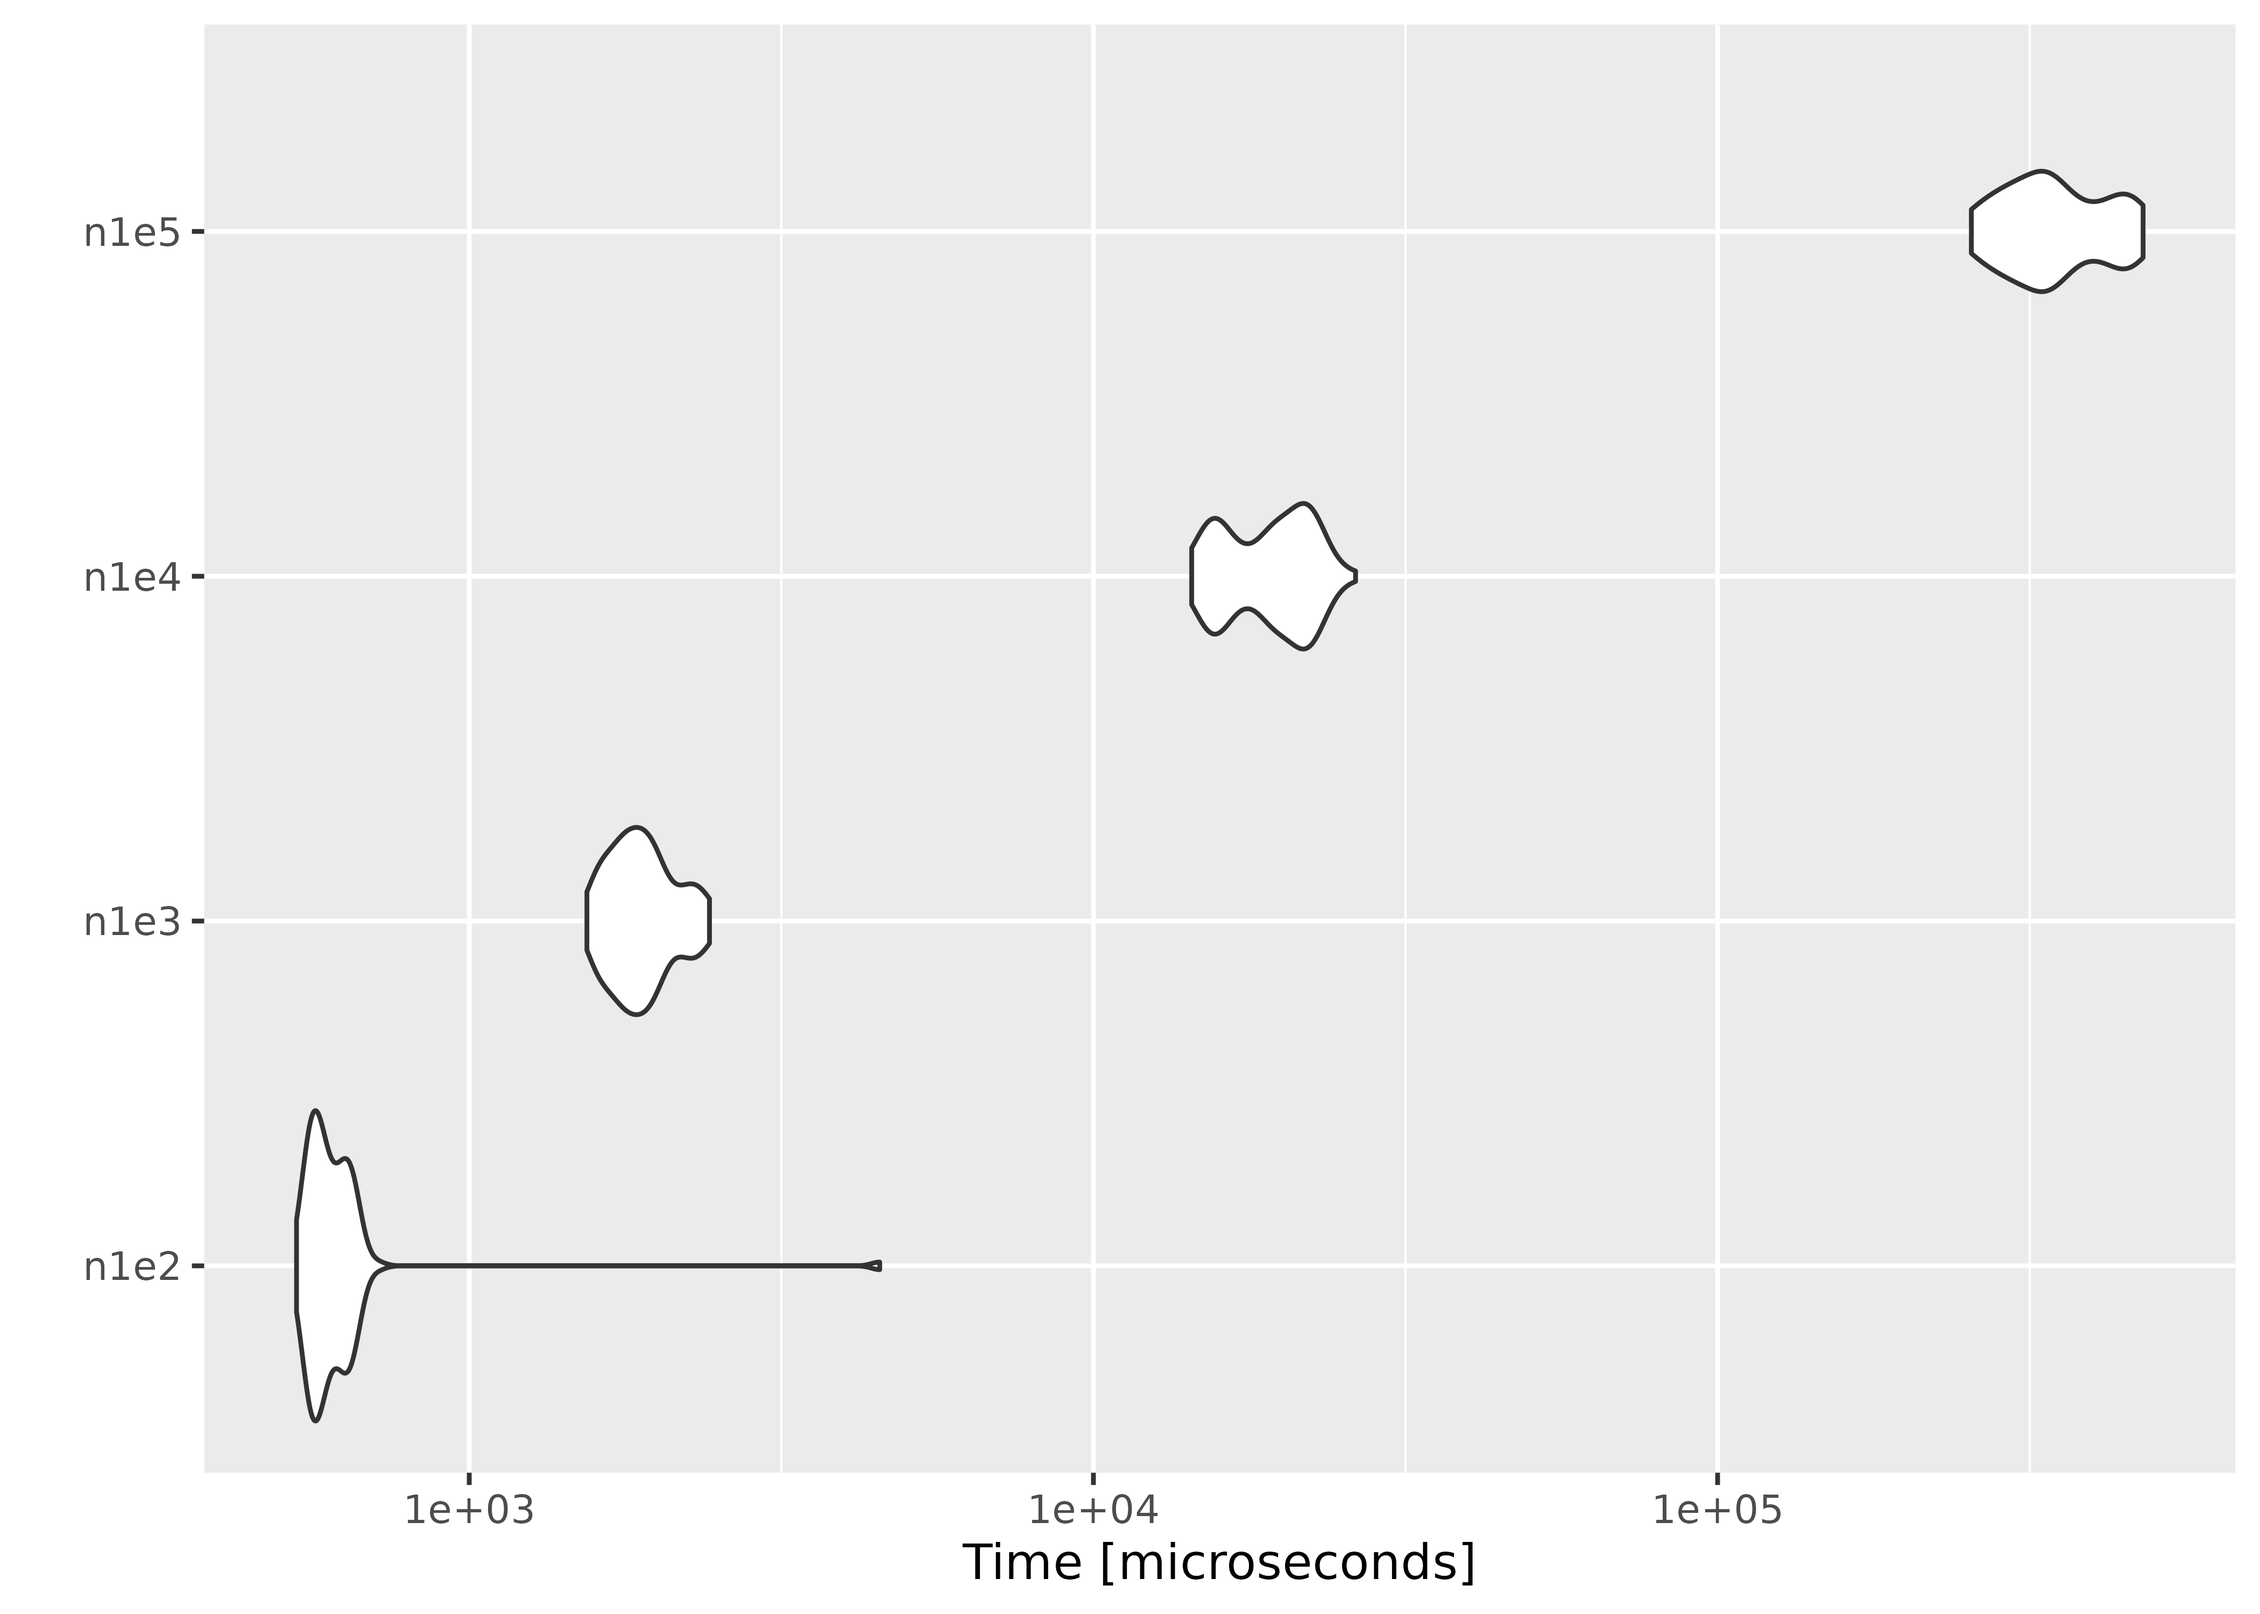
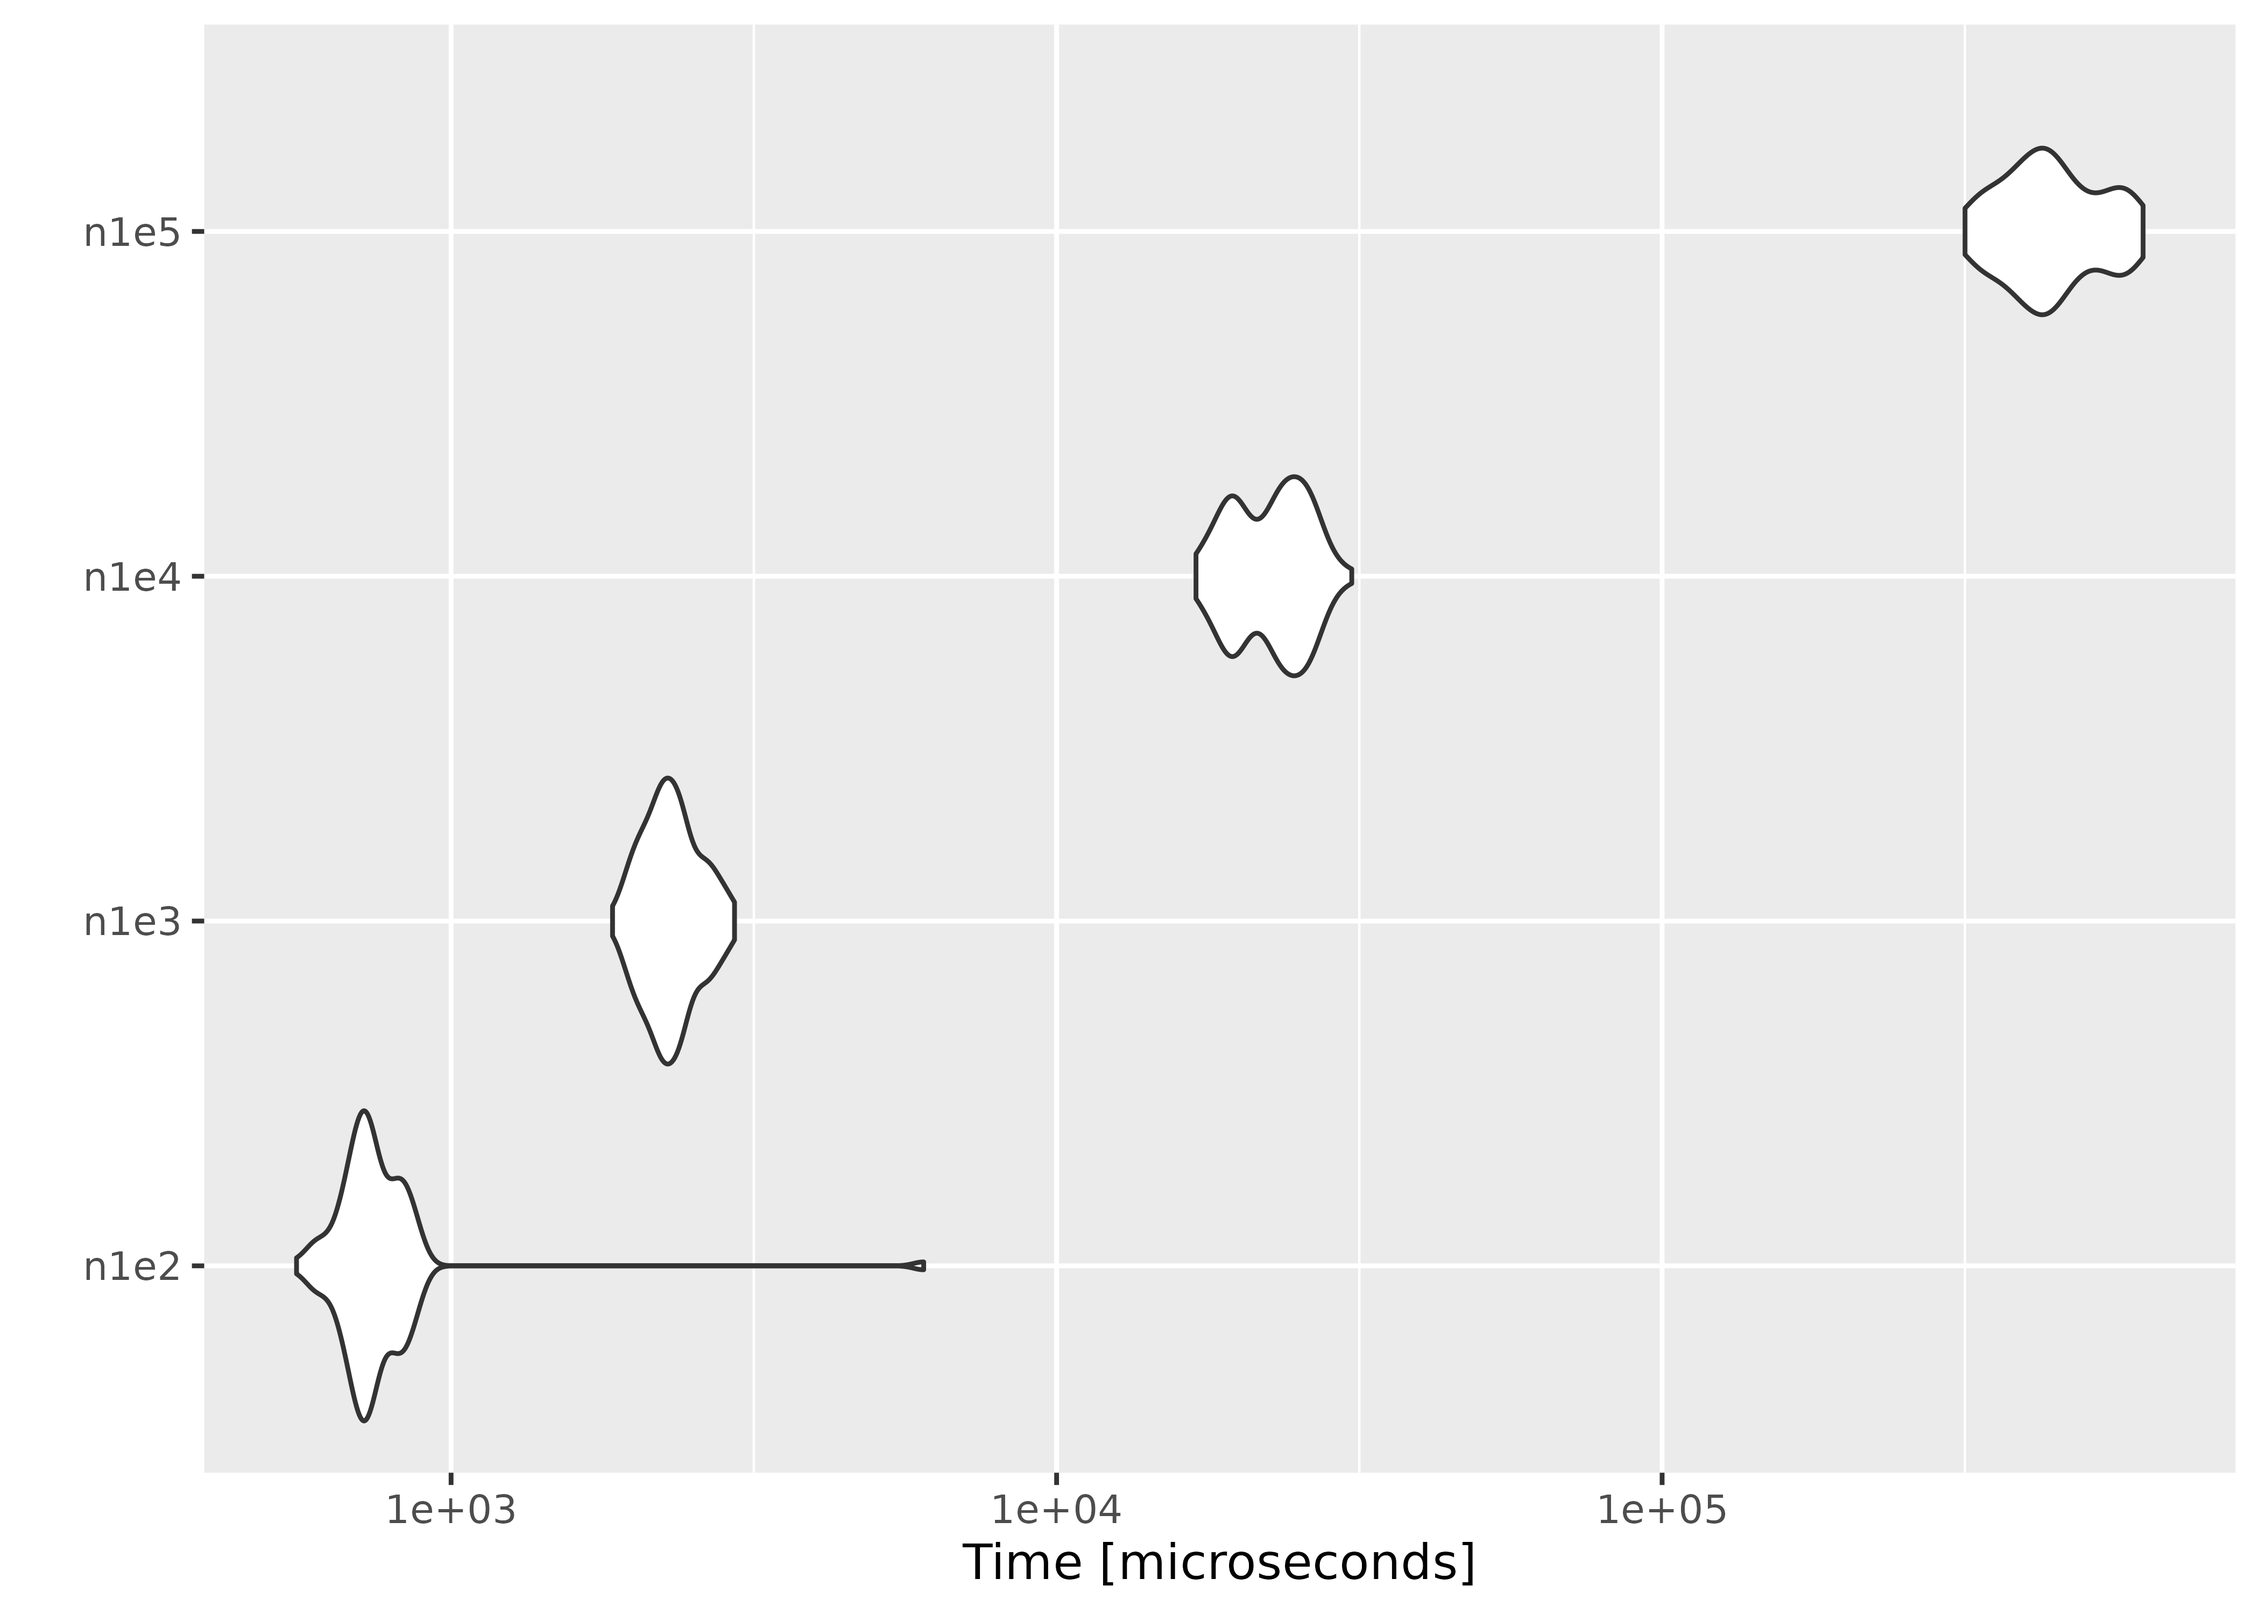
Deploying to gh-pages from @ ropensci/melt@c0a61ff501ed1f96f9266f8b95aca9884e92836a 🚀

diff --git a/articles/performance.html b/articles/performance.html
@@ -127,11 +127,11 @@
 <div class="sourceCode" id="cb3"><pre class="downlit sourceCode r">
 <code class="sourceCode R"><span><span class="va">result</span></span>
 <span><span class="co">#&gt; Unit: microseconds</span></span>
-<span><span class="co">#&gt;  expr      min        lq       mean    median        uq      max neval</span></span>
-<span><span class="co">#&gt;  n1e2    528.8    563.10    635.555    587.95    632.35   4545.7   100</span></span>
-<span><span class="co">#&gt;  n1e3   1543.5   1725.45   1900.645   1877.95   2021.60   2426.0   100</span></span>
-<span><span class="co">#&gt;  n1e4  14368.5  15718.60  19165.615  19531.80  21701.90  26301.4   100</span></span>
-<span><span class="co">#&gt;  n1e5 254990.1 298667.50 352470.516 337787.70 410766.70 480484.8   100</span></span>
+<span><span class="co">#&gt;  expr      min        lq       mean    median       uq      max neval</span></span>
+<span><span class="co">#&gt;  n1e2    555.6    694.70    791.557    726.60    804.9   6032.9   100</span></span>
+<span><span class="co">#&gt;  n1e3   1847.8   2137.75   2318.756   2285.15   2455.5   2938.4   100</span></span>
+<span><span class="co">#&gt;  n1e4  16990.2  19561.60  22689.043  23125.65  25176.3  30719.7   100</span></span>
+<span><span class="co">#&gt;  n1e5 316401.4 386003.15 446487.553 431242.35 501957.6 622759.5   100</span></span>
 <span><span class="fu"><a href="https://ggplot2.tidyverse.org/reference/autoplot.html" class="external-link">autoplot</a></span><span class="op">(</span><span class="va">result</span><span class="op">)</span></span></code></pre></div>
 <p><img src="performance_files/figure-html/unnamed-chunk-3-1.png" width="100%" style="display: block; margin: auto;"></p>
 </div>
@@ -162,11 +162,11 @@
 <div class="sourceCode" id="cb5"><pre class="downlit sourceCode r">
 <code class="sourceCode R"><span><span class="va">result2</span></span>
 <span><span class="co">#&gt; Unit: microseconds</span></span>
-<span><span class="co">#&gt;  expr      min        lq       mean    median        uq      max neval</span></span>
-<span><span class="co">#&gt;    p5    880.3    939.40    992.312    993.95   1038.70   1120.5   100</span></span>
-<span><span class="co">#&gt;   p25   3691.0   3764.25   3875.595   3800.80   3878.80   6610.0   100</span></span>
-<span><span class="co">#&gt;  p100  32408.0  36166.65  38365.827  36456.75  40104.75  62451.5   100</span></span>
-<span><span class="co">#&gt;  p400 392377.8 429333.05 484553.093 464909.30 504107.20 718674.9   100</span></span>
+<span><span class="co">#&gt;  expr      min        lq       mean    median       uq      max neval</span></span>
+<span><span class="co">#&gt;    p5    926.9   1201.80   1256.673   1250.05   1340.3   1448.3   100</span></span>
+<span><span class="co">#&gt;   p25   3939.8   4394.15   4639.331   4596.30   4733.9   8460.3   100</span></span>
+<span><span class="co">#&gt;  p100  32809.0  37127.90  40821.704  39617.05  42261.3  63600.3   100</span></span>
+<span><span class="co">#&gt;  p400 404688.9 440041.00 496589.258 471555.45 515022.2 748510.2   100</span></span>
 <span><span class="fu"><a href="https://ggplot2.tidyverse.org/reference/autoplot.html" class="external-link">autoplot</a></span><span class="op">(</span><span class="va">result2</span><span class="op">)</span></span></code></pre></div>
 <p><img src="performance_files/figure-html/unnamed-chunk-5-1.png" width="100%" style="display: block; margin: auto;"> On average, evaluating empirical likelihood with a 100000×10 or 1000×400 matrix at a parameter value satisfying the convex hull constraint takes less than a second.</p>
 </div>
